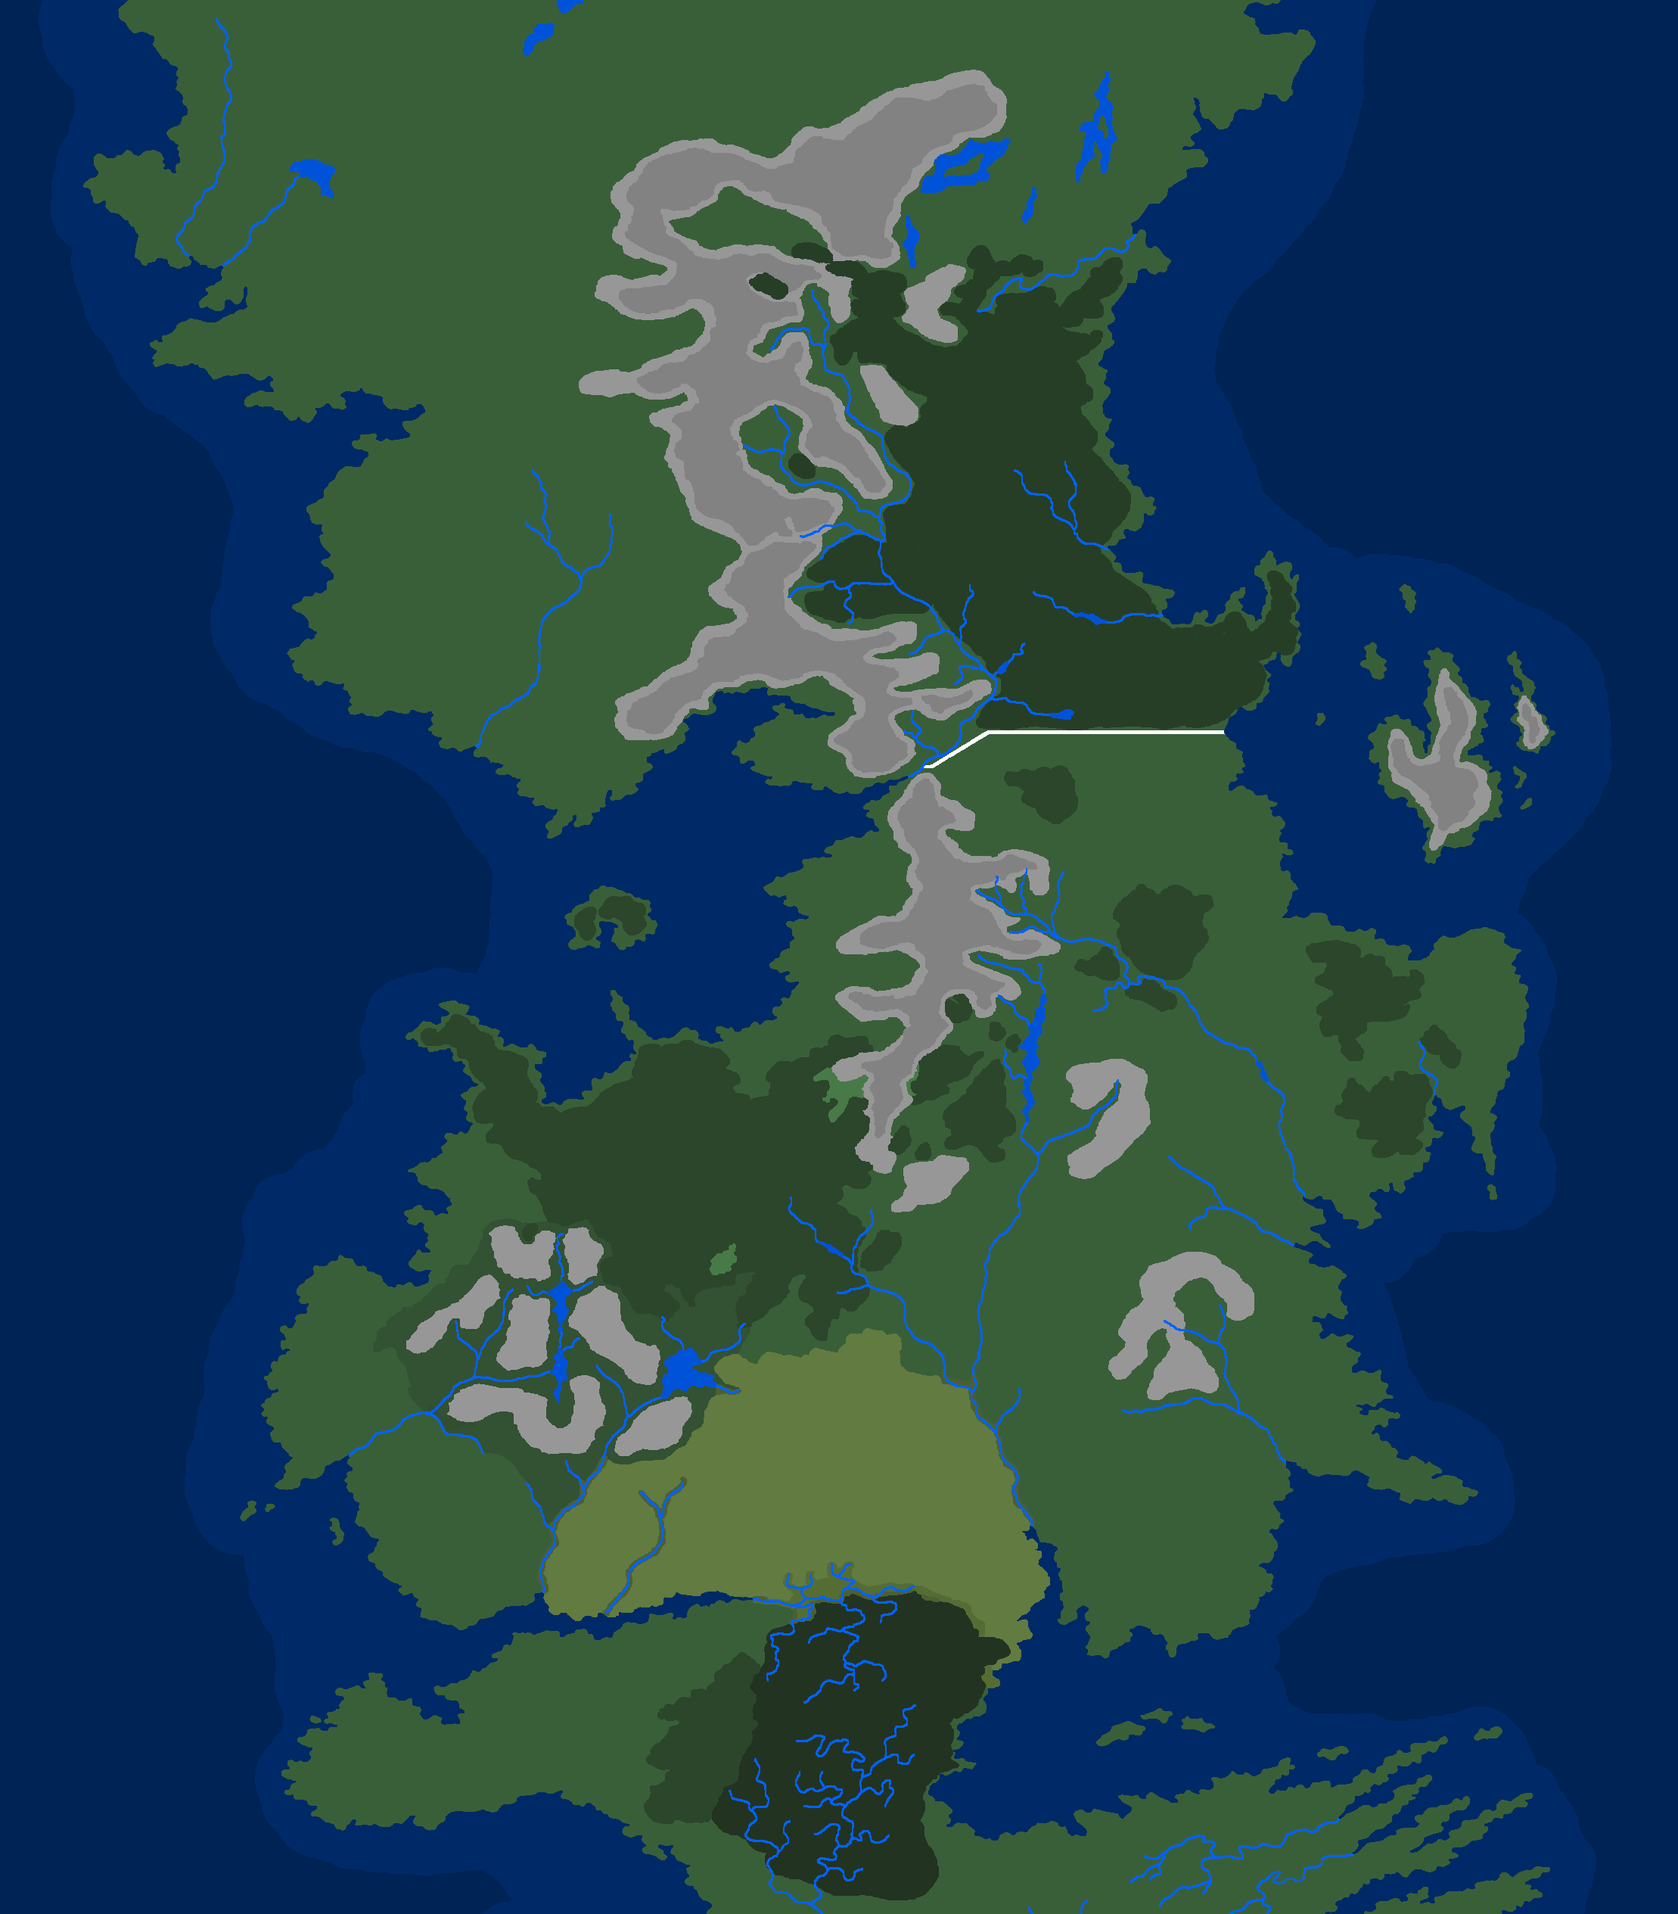
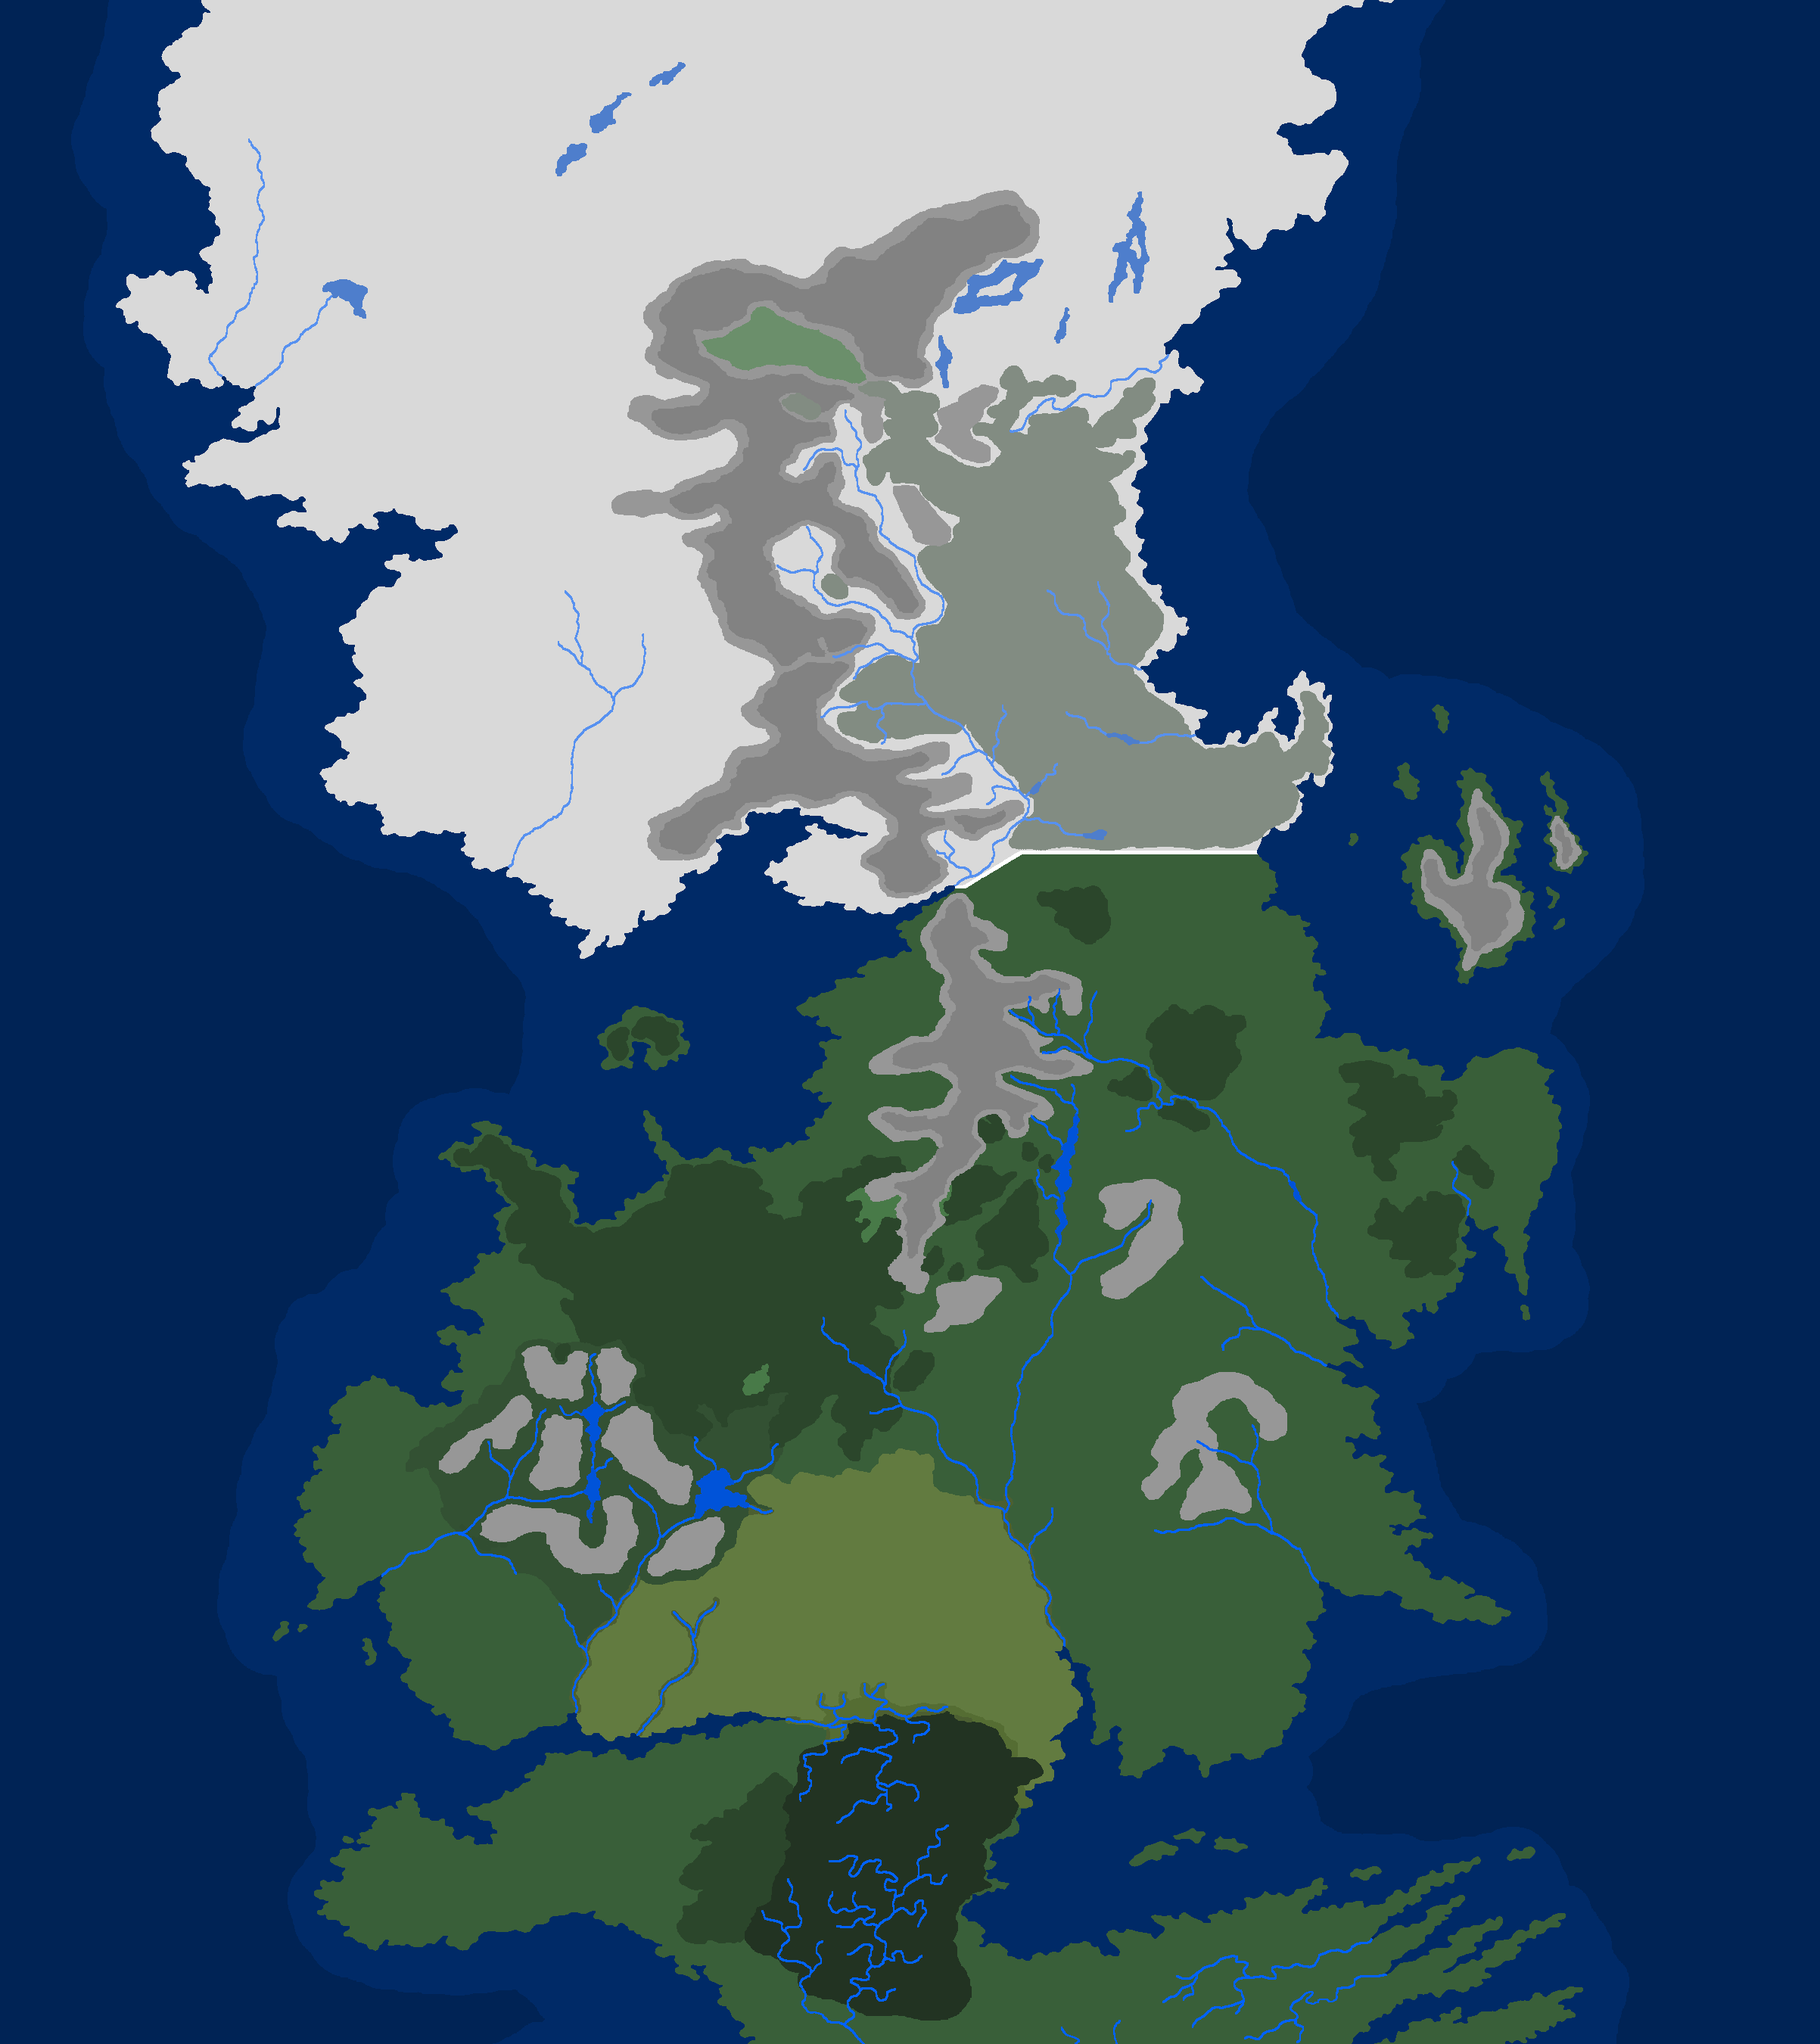
Changed the map and added some biomes

diff --git a/src/main/java/net/astormofsorts/agotmod/map/MapBiome.java b/src/main/java/net/astormofsorts/agotmod/map/MapBiome.java
@@ -22,8 +22,9 @@ public record MapBiome(ResourceKey<Biome> biome, int color, Block stoneBlock,
     private static MapBiome DEEP_COLD_OCEAN;
 
     public static void initialize() {
+        // The North
         register(new MapBiome(Biomes.MANGROVE_SWAMP, new Color(34, 51, 34).getRGB(), Blocks.STONE, Blocks.DIRT, Blocks.GRASS_BLOCK, 0, 0.01));
-        register(new MapBiome(Biomes.DARK_FOREST, new Color(43, 70, 43).getRGB(), Blocks.STONE, Blocks.DIRT, Blocks.GRASS_BLOCK, 5, 0.1));
+        register(new MapBiome(Biomes.TAIGA, new Color(43, 70, 43).getRGB(), Blocks.STONE, Blocks.DIRT, Blocks.GRASS_BLOCK, 5, 0.1));
         register(new MapBiome(Biomes.SNOWY_PLAINS, new Color(57, 95, 57).getRGB(), Blocks.STONE, Blocks.DIRT, Blocks.GRASS_BLOCK, 5, 0.1));
         register(new MapBiome(Biomes.PLAINS, new Color(57, 95, 57).getRGB(), Blocks.STONE, Blocks.DIRT, Blocks.GRASS_BLOCK, 5, 0.1));
         register(new MapBiome(Biomes.WINDSWEPT_HILLS, new Color(151, 151, 151).getRGB(), Blocks.STONE, Blocks.DIRT, Blocks.GRASS_BLOCK, 45, 1.7));
@@ -33,13 +34,20 @@ public record MapBiome(ResourceKey<Biome> biome, int color, Block stoneBlock,
         register(new MapBiome(Biomes.SAVANNA, new Color(98, 123, 64).getRGB(), Blocks.STONE, Blocks.DIRT, Blocks.GRASS_BLOCK, 5, 0.04));
         register(new MapBiome(Biomes.FOREST, new Color(61, 81, 51).getRGB(), Blocks.STONE, Blocks.DIRT, Blocks.GRASS_BLOCK, 5, 0.1));
         register(new MapBiome(Biomes.MEADOW, new Color(72, 122, 72).getRGB(), Blocks.STONE, Blocks.DIRT, Blocks.GRASS_BLOCK, 5, 0.1));
-        register(new MapBiome(Biomes.SNOWY_TAIGA, new Color(38, 62, 38).getRGB(), Blocks.STONE, Blocks.DIRT, Blocks.GRASS_BLOCK, 5, 0.1));
-        register(new MapBiome(Biomes.FROZEN_PEAKS, new Color(255, 255, 255).getRGB(), Blocks.STONE, Blocks.PACKED_ICE, Blocks.SNOW_BLOCK, 150, 0)); // wall
+        // wall
+        register(new MapBiome(Biomes.FROZEN_PEAKS, new Color(255, 255, 255).getRGB(), Blocks.STONE, Blocks.PACKED_ICE, Blocks.SNOW_BLOCK, 150, 0));
+        //North Of The Wall
+        register(new MapBiome(Biomes.SNOWY_TAIGA, new Color(130, 140, 130).getRGB(), Blocks.STONE, Blocks.DIRT, Blocks.GRASS_BLOCK, 5, 0.1));
+        register(new MapBiome(Biomes.SNOWY_SLOPES, new Color(217, 217, 217).getRGB(), Blocks.STONE, Blocks.DIRT, Blocks.GRASS_BLOCK, 5, 0.1));
+        register(new MapBiome(Biomes.SUNFLOWER_PLAINS, new Color(107, 143, 107).getRGB(), Blocks.STONE, Blocks.DIRT, Blocks.GRASS_BLOCK, 5, 0.1));
+
 
 
         // water biomes
         register(new MapBiome(Biomes.RIVER, new Color(1, 98, 255).getRGB(), Blocks.STONE, Blocks.DIRT, Blocks.GRASS_BLOCK, -5, 0));
+        register(new MapBiome(Biomes.FROZEN_RIVER, new Color(87, 145, 240).getRGB(), Blocks.STONE, Blocks.DIRT, Blocks.GRASS_BLOCK, -5, 0));
         register(new MapBiome(Biomes.LUKEWARM_OCEAN, new Color(0, 83, 217).getRGB(), Blocks.STONE, Blocks.DIRT, Blocks.GRASS_BLOCK, -5, 1)); // lake
+        register(new MapBiome(Biomes.FROZEN_OCEAN, new Color(78, 126, 204).getRGB(), Blocks.STONE, Blocks.DIRT, Blocks.GRASS_BLOCK, -5, 1)); // Frozen Lake
         register(new MapBiome(Biomes.COLD_OCEAN, new Color(0, 42, 103).getRGB(), Blocks.STONE, Blocks.DIRT, Blocks.GRASS_BLOCK, -35, 0.2));
         DEEP_COLD_OCEAN = register(new MapBiome(Biomes.DEEP_COLD_OCEAN, new Color(0, 35, 85).getRGB(), Blocks.STONE, Blocks.DIRT, Blocks.GRASS_BLOCK, -125, 0.5));
     }
